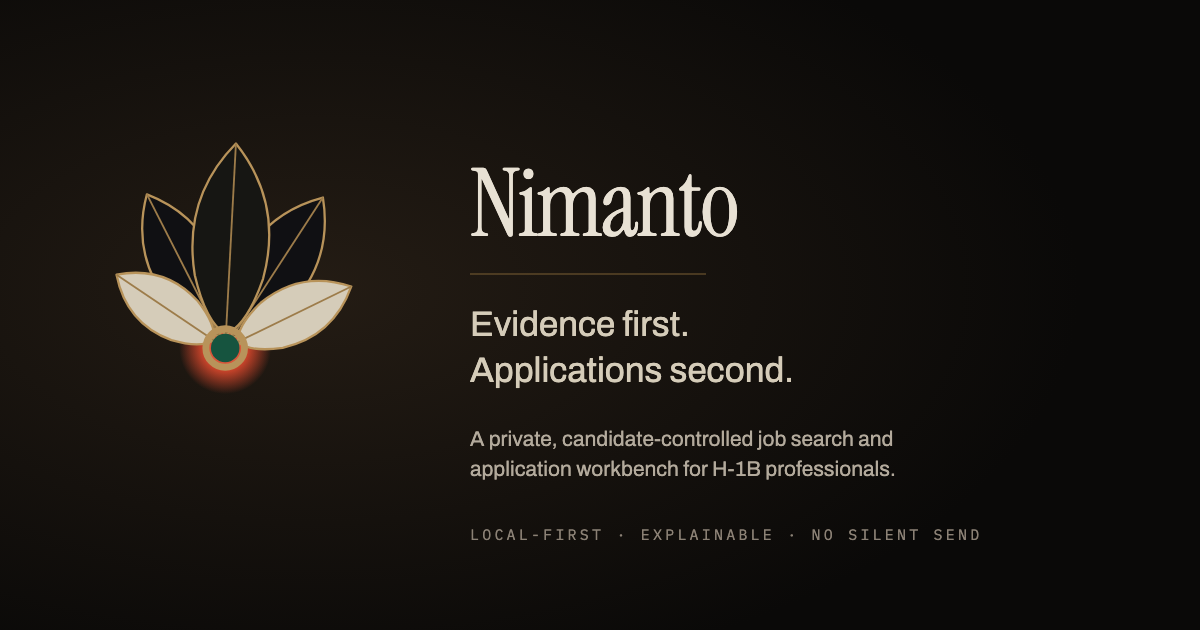
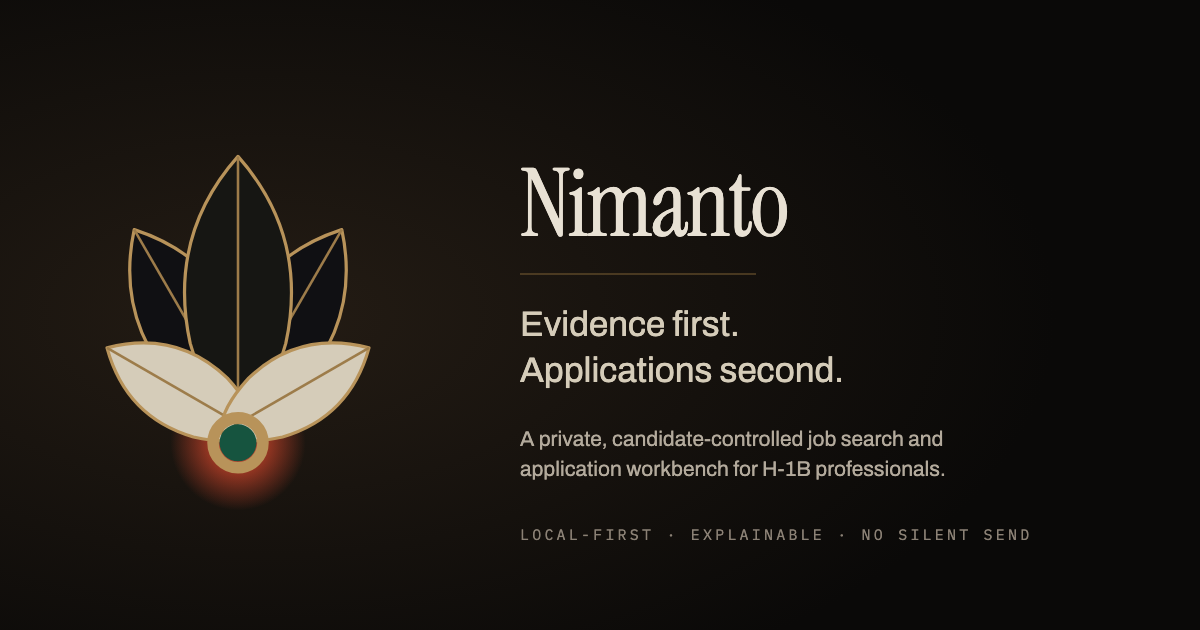
feat(brand): straighten the mark, enlarge it, and set the wordmark beneath
The petal spec inherited from the brand source fanned -64/-33/-3/27/56, which
reads as a lean rather than as a mark. It is now mirrored pairs about a vertical
crown — -60/-30/0/30/60 — across the 3D scene, the flat mark, the app icon, the
social card and the README animation.

Every surface is now fitted to the mark's measured bounding box rather than to
an estimate, so the app icon sits on balanced 88px padding instead of drifting
high, and the mark fills more of its frame.

The README animation gains the wordmark beneath the lotus, fading in as the
petals settle. It is outlines, not a <text> element: an SVG rendered as an image
cannot fetch a webfont, so <text> would silently fall back to whatever serif the
viewer happens to have. The paths are Instrument Serif, converted once from the
font this project already self-hosts.

diff --git a/apps/web/components/brand.tsx b/apps/web/components/brand.tsx
@@ -6,41 +6,49 @@
  * That is why the mark and the hero read as the same object rather than as a
  * logo and a render. */
 
+const HUB = { x: 32, y: 54.57 };
+const SEED_R = 3.27;
+const HUB_R = 4.4;
+const HUB_W = 2.05;
+const GLOW_R = 11.93;
+const STROKE = 0.57;
+const VEIN_W = 0.45;
+
 const PETALS = [
-  {
-    key: "outer-right",
-    material: "ivory",
-    at: "translate(34.70 48.68) rotate(64)",
-    d: "M0 -27.50 Q8.08 -19.25 5.45 -8.25 Q3.30 -1.51 0 0 Q-3.30 -1.51 -5.45 -8.25 Q-8.08 -19.25 0 -27.50 Z",
-    vein: "M0 0 L0 -27.50",
-  },
   {
     key: "inner-right",
     material: "lacquer",
-    at: "translate(33.63 47.48) rotate(33)",
-    d: "M0 -36.00 Q9.80 -25.20 6.60 -10.80 Q4.00 -1.98 0 0 Q-4.00 -1.98 -6.60 -10.80 Q-9.80 -25.20 0 -36.00 Z",
-    vein: "M0 0 L0 -36.00",
+    at: "translate(33.7 51.62) rotate(-30)",
+    d: "M0 -40.06 Q10.85 -28.04 7.3 -12.02 Q4.43 -2.22 0 0 Q-4.43 -2.22 -7.3 -12.02 Q-10.85 -28.04 0 -40.06 Z",
+    vein: "M0 0 L0 -40.06",
   },
   {
     key: "inner-left",
     material: "lacquer",
-    at: "translate(30.64 47.33) rotate(-27)",
-    d: "M0 -34.50 Q9.31 -24.15 6.27 -10.35 Q3.80 -1.90 0 0 Q-3.80 -1.90 -6.27 -10.35 Q-9.31 -24.15 0 -34.50 Z",
-    vein: "M0 0 L0 -34.50",
+    at: "translate(30.3 51.62) rotate(30)",
+    d: "M0 -40.06 Q10.85 -28.04 7.3 -12.02 Q4.43 -2.22 0 0 Q-4.43 -2.22 -7.3 -12.02 Q-10.85 -28.04 0 -40.06 Z",
+    vein: "M0 0 L0 -40.06",
   },
   {
     key: "crown",
-    material: "lacquer",
-    at: "translate(32.16 47.00) rotate(3)",
-    d: "M0 -41.50 Q11.03 -29.05 7.43 -12.45 Q4.50 -2.28 0 0 Q-4.50 -2.28 -7.43 -12.45 Q-11.03 -29.05 0 -41.50 Z",
-    vein: "M0 0 L0 -41.50",
+    material: "crown",
+    at: "translate(32 51.16) rotate(0)",
+    d: "M0 -47.16 Q12.53 -33.01 8.44 -14.15 Q5.11 -2.59 0 0 Q-5.11 -2.59 -8.44 -14.15 Q-12.53 -33.01 0 -47.16 Z",
+    vein: "M0 0 L0 -47.16",
+  },
+  {
+    key: "outer-right",
+    material: "ivory",
+    at: "translate(34.95 52.87) rotate(-60)",
+    d: "M0 -30.12 Q8.92 -21.08 5.99 -9.04 Q3.64 -1.65 0 0 Q-3.64 -1.65 -5.99 -9.04 Q-8.92 -21.08 0 -30.12 Z",
+    vein: "M0 0 L0 -30.12",
   },
   {
     key: "outer-left",
     material: "ivory",
-    at: "translate(29.51 48.32) rotate(-56)",
-    d: "M0 -25.50 Q7.59 -17.85 5.12 -7.65 Q3.10 -1.40 0 0 Q-3.10 -1.40 -5.12 -7.65 Q-7.59 -17.85 0 -25.50 Z",
-    vein: "M0 0 L0 -25.50",
+    at: "translate(29.05 52.87) rotate(60)",
+    d: "M0 -30.12 Q8.92 -21.08 5.99 -9.04 Q3.64 -1.65 0 0 Q-3.64 -1.65 -5.99 -9.04 Q-8.92 -21.08 0 -30.12 Z",
+    vein: "M0 0 L0 -30.12",
   },
 ];
 
@@ -57,18 +65,25 @@ export function Mark({ size = 40, title }: { size?: number; title?: string }) {
       focusable="false"
     >
       {/* the light behind the seed */}
-      <circle cx="32" cy="50" r="9" className="mark-glow" />
+      <circle cx={HUB.x} cy={HUB.y} r={GLOW_R} className="mark-glow" />
       {/* five petals: two ivory outer, three lacquer inner, brass at every edge.
           Lacquer first so the ivory pair reads in front, as it does in 3D. */}
       {PETALS.map((petal) => (
         <g key={petal.key} transform={petal.at}>
-          <path className={`mark-petal is-${petal.material}`} d={petal.d} strokeWidth="0.5" />
-          <path className="mark-vein" d={petal.vein} fill="none" strokeWidth="0.4" />
+          <path className={`mark-petal is-${petal.material}`} d={petal.d} strokeWidth={STROKE} />
+          <path className="mark-vein" d={petal.vein} fill="none" strokeWidth={VEIN_W} />
         </g>
       ))}
       {/* the seed at the axis, in its brass hub */}
-      <circle cx="32" cy="50" r="3.1" className="mark-seed" />
-      <circle cx="32" cy="50" r="4.2" className="mark-hub" fill="none" strokeWidth="1.5" />
+      <circle cx={HUB.x} cy={HUB.y} r={SEED_R} className="mark-seed" />
+      <circle
+        cx={HUB.x}
+        cy={HUB.y}
+        r={HUB_R}
+        className="mark-hub"
+        fill="none"
+        strokeWidth={HUB_W}
+      />
     </svg>
   );
 }

diff --git a/apps/web/components/emblem-core.ts b/apps/web/components/emblem-core.ts
@@ -317,11 +317,13 @@ export class NimantoEmblem {
   #buildLotus(): Group {
     const group = new Group();
     const spec = [
-      { angle: -64, w: 0.33, h: 1.1, material: "ivory" as const },
-      { angle: -33, w: 0.4, h: 1.44, material: "lacquer" as const },
-      { angle: -3, w: 0.45, h: 1.66, material: "lacquer" as const },
-      { angle: 27, w: 0.38, h: 1.38, material: "lacquer" as const },
-      { angle: 56, w: 0.31, h: 1.02, material: "ivory" as const },
+      // Mirrored pairs about a vertical crown. The brand source fanned these
+      // -64/-33/-3/27/56, which reads as a lean rather than as a mark.
+      { angle: -60, w: 0.32, h: 1.06, material: "ivory" as const },
+      { angle: -30, w: 0.39, h: 1.41, material: "lacquer" as const },
+      { angle: 0, w: 0.45, h: 1.66, material: "lacquer" as const },
+      { angle: 30, w: 0.39, h: 1.41, material: "lacquer" as const },
+      { angle: 60, w: 0.32, h: 1.06, material: "ivory" as const },
     ];
     const axis = -0.62;
 

diff --git a/apps/web/app/globals.css b/apps/web/app/globals.css
@@ -415,6 +415,11 @@ svg {
 .mark .mark-petal.is-lacquer {
   fill: var(--lacquer);
 }
+/* The crown sits in front of its neighbours, so it lifts one step to keep the
+   overlap readable at 24px. */
+.mark .mark-petal.is-crown {
+  fill: #161613;
+}
 .mark .mark-vein {
   stroke: var(--brass-400);
 }
